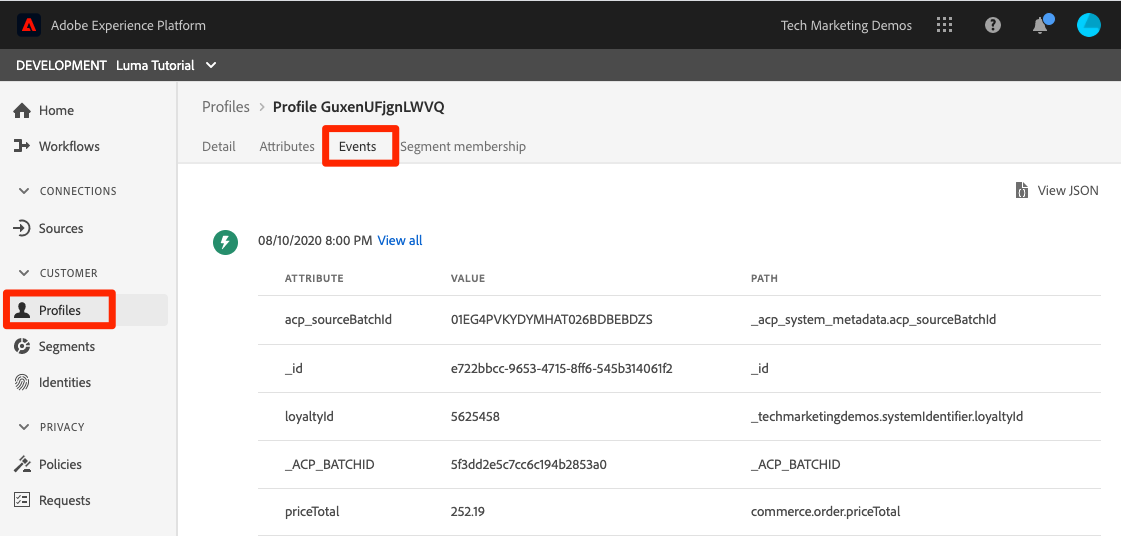
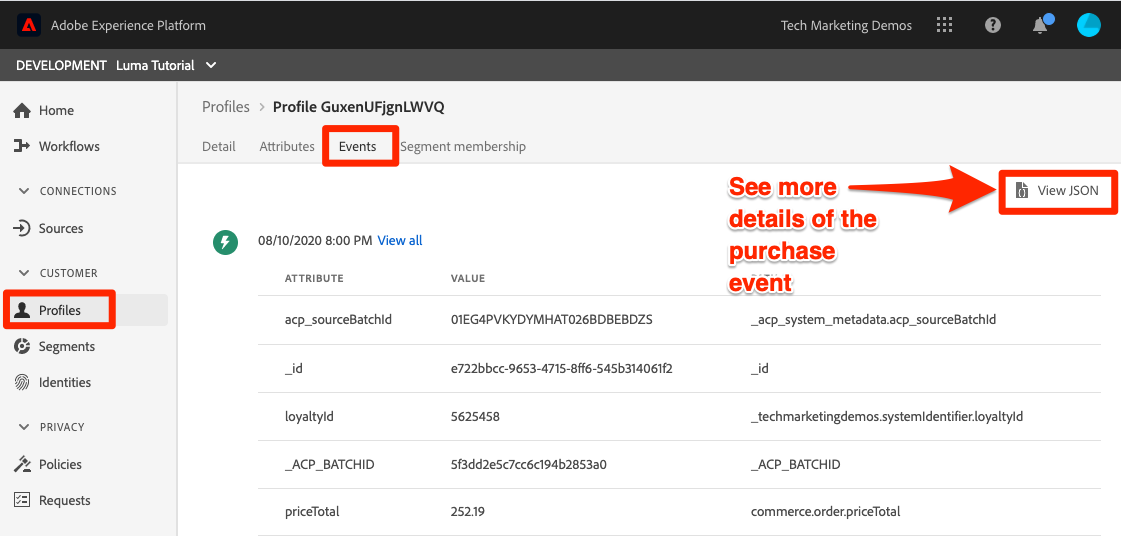
update

Changed region(s): [[0.6244, 0.2985, 0.9991, 0.5672]]

diff --git a/help/tutorial-data-architect-and-engineer/ingest-batch-data.md b/help/tutorial-data-architect-and-engineer/ingest-batch-data.md
@@ -310,7 +310,7 @@ When the batch has uploaded, verify the upload by previewing the dataset.
 
 You should see the three hits to your webhook.
 
-Look up the profile with value `5625458` in the `loyaltyId` namespace again to see if there are any purchase events in their profile. You should see one:
+Look up the profile with value `5625458` in the `loyaltyId` namespace again to see if there are any purchase events in their profile. You should see one purchase. You can dig into the details of the purchase by clicking **[!UICONTROL View JSON]**:
 
 ![Purchase event in profile](assets/ingestion-offline-eventInProfile.png)
 
